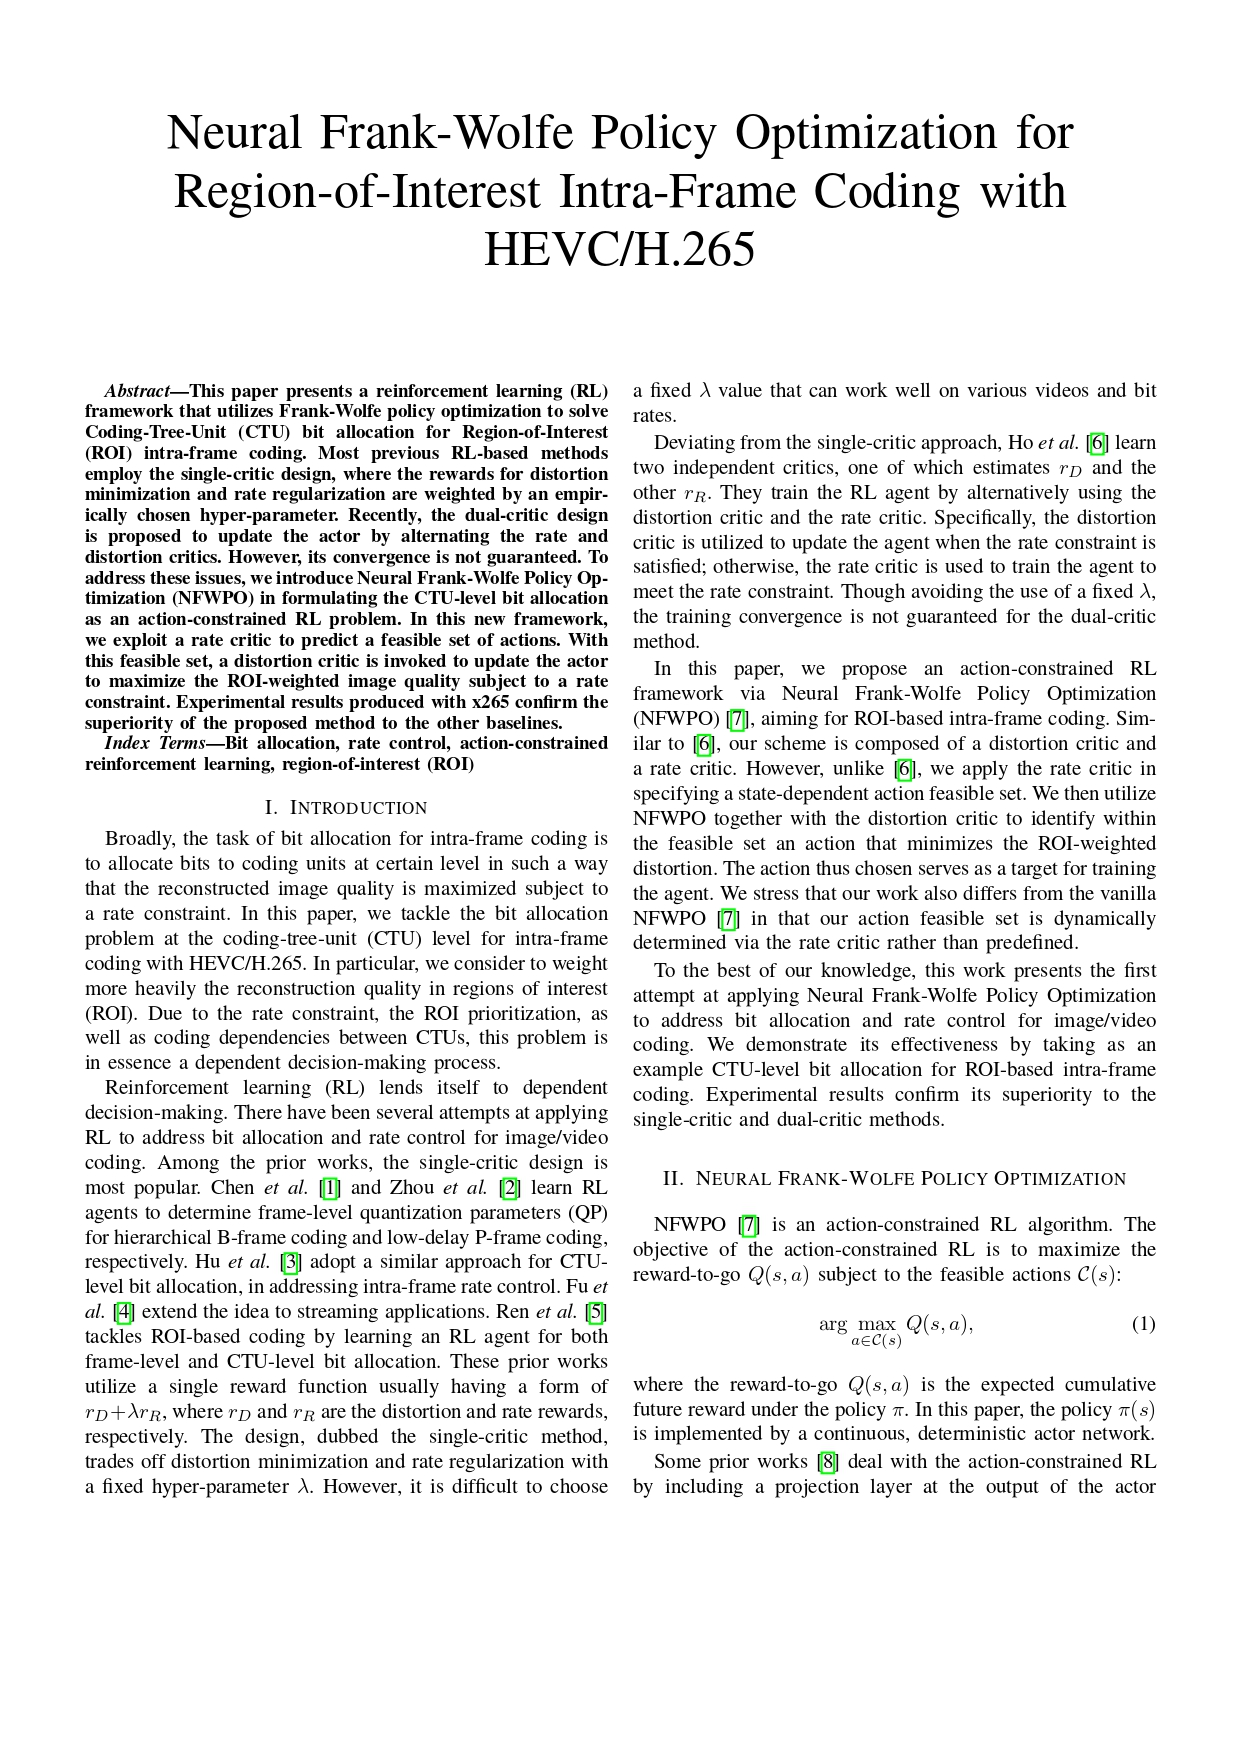
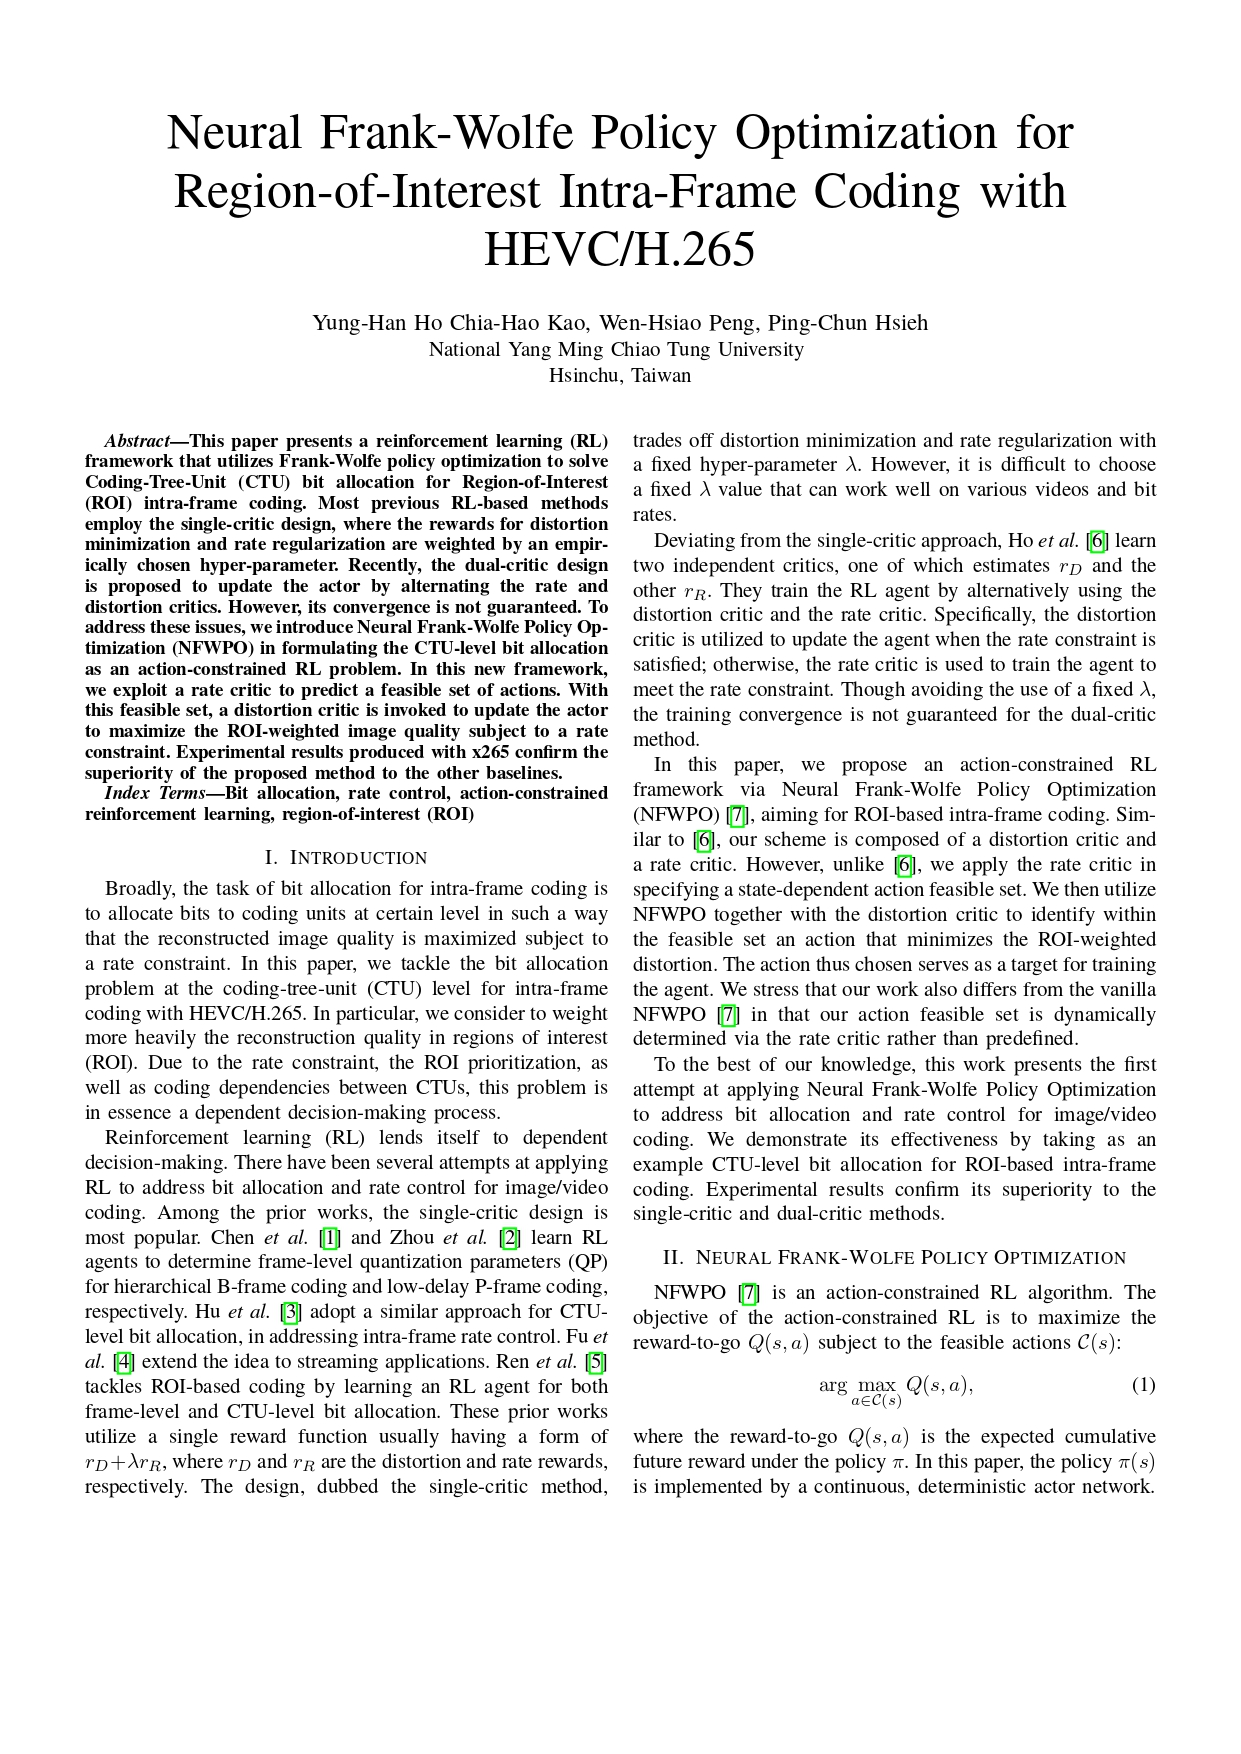
change thumbnail

Changed region(s): [[0.0612, 0.1847, 0.9492, 0.862]]

diff --git a/index.html b/index.html
@@ -23,7 +23,7 @@
       <div class="row">
         <h1>Neural Frank-Wolfe Policy Optimization for <br/> Region-of-Interest Intra-Frame Coding with HEVC/H.265</h1>
         <div class="authors">
-          Yung-Han Ho, Chia Hao Kao, Wen-Hsiao Peng, Ping-Chun Hsieh
+          Yung-Han Ho, Chia-Hao Kao, Wen-Hsiao Peng, Ping-Chun Hsieh
         </div>
       </div>
     
